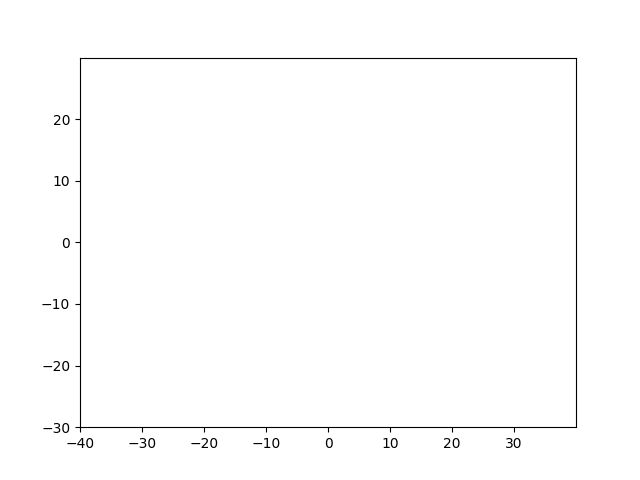
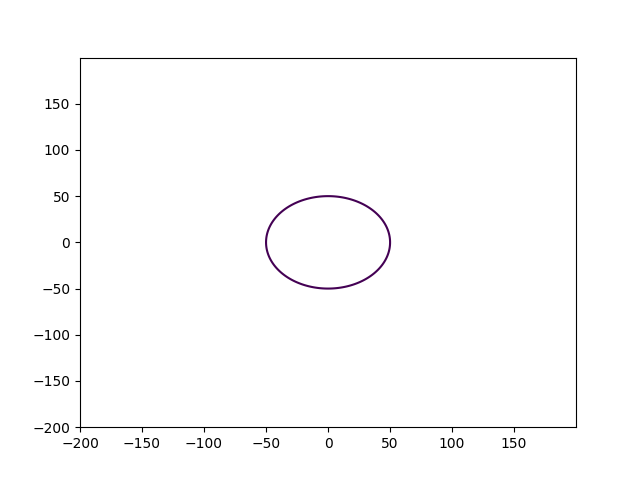
ewgw

diff --git a/tusk3.py b/tusk3.py
@@ -1,11 +1,11 @@
 import matplotlib.pyplot as plt
 import numpy as np
-def elips_plotter(a = int(input()), b = int(input()), rx = int(input()), ry = int(input())):
-    x = np.arange(-rx, rx, 0.01)
-    y = np.arange(-ry, ry, 0.01)
+def elips_plotter(a = float(input()), b = float(input()), r = float(input())):
+    x = np.arange(-2 * r, 2 * r, 0.1)
+    y = np.arange(-2 * r, 2 * r, 0.1)
 
     X, Y = np.meshgrid(x, y)
-    fxy = (X ** 2) / (a ** 2) + (Y ** 2) / (b ** 2)
+    fxy = (X ** 2) / (a ** 2) + (Y ** 2) / (b ** 2) - 1
 
     plt.contour(X, Y, fxy, levels=[0])
     plt.savefig('fig_10.png')

diff --git a/tusk4.py b/tusk4.py
@@ -1,0 +1,17 @@
+import matplotlib.pyplot as plt
+import numpy as np
+import math
+def polar(b = 0.1):
+    t = np.arange(0, math.pi * 8, 0.01)
+    x = np.zeros(len(t))
+    y = np.zeros(len(t))
+    for i in range(len(t)):   
+        r = math.e ** (b * t[i])
+        x0 = math.cos(t[i]) * r
+        x[i] = x0
+        y0 = math.sin(t[i]) * r
+        y[i] = y0
+    plt.plot(x, y)
+    plt.savefig('fig_11.png')
+if __name__ == '__main__':
+	polar()
